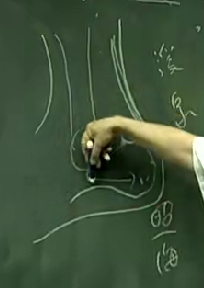
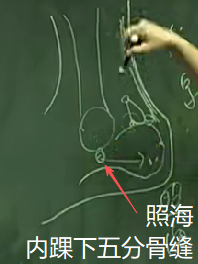
完成了肾经穴道内容。待补肾经胸腹线路图。

diff --git a/docs/acupuncture/meridians/kidney/index.md b/docs/acupuncture/meridians/kidney/index.md
@@ -111,44 +111,59 @@
 
 ## 太溪（俞穴，属土）
 
-![An image](/kidney/10太溪.png)
+![An image](/kidney/10太溪大钟水泉.png)
 太溪，在内踝高骨与脚后大筋的中间凹陷处。俞穴，属土。太溪里面有动脉，人昏迷过去，如果太溪脉还在，就是肾气还在，就可以救回来；如果曈孔放大，太溪脉也没有了，就没有救了。
 
 附，冲阳脉在，就是胃气还在。
 
 太溪下针，直下。
+![An image](/kidney/10太溪下针是直下.png)
 
 ## 肾结石反应区（奇穴）
 
 |||
 |---|---|
 |![An image](/kidney/11肾结石反应点.png)|![An image](/kidney/12肾结石的位置.png)|
-
+肾结石一般在下午5-7点发作，因为此时气血运行在肾经。
 太溪上一两寸的范围，想像一个肾的形状，这就是肾结石的反应区。在这个区域按压，如果有强烈压痛，就是有肾结石，因结石点不同，所以压痛点会不同，在压痛点下针，直下。肾结石在排的时候很痛，一下针，痛马上缓解，过一会儿，病人会感到有东西在动，就是结石在排。吃钙片会长肾结石，还有注意饮水的问题。喝鱼骨汤就能很好补钙。人体需要钙，但只能从自然的食物中获取。
 
 ## 大钟（络穴）
 
-![An image](/kidney/13大钟.png)
-大钟，络穴。在后跟骨与大筋的交接处。肾实小便排不出、虚症腰酸痛，都可以下大钟。直下。
+![An image](/kidney/10太溪大钟水泉.png)
+大钟，络穴。在后跟骨与大筋的交接处。肾实小便排不出、虚症腰酸痛，都可以下大钟。
+
+大钟下针直下。
+![An image](/kidney/11大钟下针是直下.png)
 
 ## 水泉（郄穴）
 
-![An image](/kidney/14水泉.png)
-水泉，郄穴。太溪向下到跟骨边上。从上到下斜向里下针。水、溪，都治水肿、月经等水病。治后跟痛，左脚后跟痛扎右脚水泉，右脚后跟痛扎左脚水泉。
+![An image](/kidney/10太溪大钟水泉.png)
+水泉，郄穴。太溪向下到跟骨边上。
+
+从上到下斜向里45度下针。
+![An image](/kidney/12水泉下针斜向下.png)
+水、溪，都治水肿、月经等水病。治后跟痛，左脚后跟痛扎右脚水泉，右脚后跟痛扎左脚水泉。
+
+::: info 为什么水泉治后跟痛、停经、水肿很好用？
+因为肾主骨、肾管月事、肾为水，而水泉是肾经郄穴，所以治水病、骨病镇痛都有用。
+:::
 
 ## 照海（阴跷脉）
 
 ![An image](/kidney/15照海.png)
-照海，内踝下五分的骨缝中。从上到下斜向里，顺着骨缝下针。
+照海，内踝下五分的骨缝中。
 
-照海管阴跷脉。阴跷和肾经重叠并行至喉。
+从上到下斜向里45度，顺着骨缝下针。
+![An image](/kidney/15照海下针斜向下.png)
+
+照海管阴跷脉。阴跷和肾经一直重叠并行至喉。
 
 ::: tip 列缺照海治一切喉病
 列缺照海治一切喉病，如甲状腺肿大、扁桃腺发炎、慢性喉炎、咽炎。一下对穴道，喉痛马上去掉。如果扁桃肿得太大，三寸针天应放血，再下照海，喉痛当场去掉。后用夏枯草五钱，煮带壳鸡蛋，两碗水煮成一碗，喝汤吃蛋，之后终生不会再犯扁桃腺炎。
 :::
 
 ::: tip 女人逆经
-女人逆经，月经本该顺任脉下行，却被阴跷倒推上行，从鼻子出来，每月固定流鼻血，这就用照海治。
+月经本该顺任脉下行，由胸部到子宫再由阴道排出，由于阴跷脉出了问题，反被阴跷倒推上行，顺喉头再从鼻子出来，每月固定流鼻血，这就是逆经。因为是阴跷的问题，所以用照海治。
 :::
 
 ::: tip 癫痫
@@ -168,31 +183,36 @@
 ![An image](/kidney/17复溜下针法.png)
 下针方式：在复溜下五分入针，斜向上进针，确保针尖停在复溜处。这是补针的下法。一下就是小补，下了针再随经捻转就是中补，再提豆许就是大补。
 
-复溜下针的时候，常常会被麻或电一下。
+复溜气很强，下针的时候，病人常常会像被电麻一样跳一下。
 :::
 
 ::: info 养生灸关元、复溜
 平常没事看电视时，就灸灸关元、复溜，是很补人的。因为肾是水经，而艾就是找水的，所以一灸，脚就会热起来。脚只要是热的，脚上的水是汽化的，身体就不会累积多余的水，癌就不会作怪。我们每个人都有癌细胞，只要水是热的，它永远不会作怪。
+
+灸复溜的时候，一般是盘腿灸，注意避开艾烟，不要因吸入大量艾烟而导致头昏痛。
 :::
 
-## 交信
+## 交信（阴跷郄穴）
 
 ![An image](/kidney/18交信.png)
-交信，复溜往前一寸，到骨边，下针时不要太靠近骨边，因为会伤到骨膜。阴跷郄穴。肾经在复溜打了个折，横行到交信，然后再向上行。
+交信，复溜往前一寸，到骨边，下针时不要太靠近骨边，因为会伤到骨膜，扎下去会很痛。阴跷郄穴。肾经在复溜打了个折，横行到交信，然后再向上行。
 
 交信用得不多，主要用复溜。没事灸复溜，非常好。一灸脚就热起来，水就流动起来。
 
-## 筑宾
+## 筑宾（阴维郄穴）
 
-![An image](/kidney/19筑宾和曲池.png)
-筑宾，太溪上五后一。阴围脉郄穴。
+![An image](/kidney/19筑宾.png)
+筑宾，太溪上五后一。阴维脉郄穴。
+![An image](/kidney/19然谷到筑宾.png)
 
 ::: tip 筑宾、曲池、委中 -- 皮肤病大穴
+![An image](/kidney/19筑宾和曲池.png)
 筑宾和曲池上下呼应，消炎解毒镇痛，筑宾管肚脐以下，曲池管肚脐以上。
 
 - 如果上半身痒，下合谷曲池，因为合谷是气脉；
 - 下半身痒，下筑宾血海三阴交。
 - 如果是牛皮癣，委中放血。
+
 五穴十针，左右都要下，下针的同时，全身的痒就去掉了。所以这五个穴加上委中，是治疗皮肤病的大穴。
 :::
 
@@ -202,37 +222,121 @@
 
 ## 阴谷（合穴，属水，本穴）
 
-阴谷，腘内侧两条筋的中间凹洞。属水，本穴，合穴。可泻金家实症，比如肺和大肠的实症，可用阴谷去泻。可补木家虚症，比如肝胆虚症，可用阴谷去补肝胆。本穴，可补泻子母，这就是本穴的用法。下针方法：曲腿下两筋中间的凹洞，直腿下筋的内侧，因为腿直起来的时候两条筋就崩成了一条筋。只要扎下去引到气，水性就出来了，就补木泻金了。所以本穴无所谓行补泻。
+![An image](/kidney/20阴谷.png)
+阴谷，腘内侧两条筋的中间凹洞。属水，本穴，合穴。本穴无所谓行补泻。
 
-对称治疗法：如果委中痛，可以扎对侧委中，或者扎对侧尺泽或曲泽；如果腘窝内侧痛，可以扎对侧少海；如果外侧痛，扎曲池；如果肘尖撞痛，可以扎对侧鹤顶；如果腕背中间痛，扎对侧解溪；如果太渊痛，扎对侧商丘；如果鱼际痛，对侧然谷或公孙。
+::: warning 本穴的用法
+![An image](/kidney/20阴谷的用法.png)
+水经水穴，可泻金家实症，因为金生水，比如肺和大肠的实症，可用阴谷去泻。针扎下去，左转右转引到气就行了，就已经泻了金了；
 
-横骨，曲骨外开一寸。腹部肾经与任脉相距一寸。腹部肾经与冲脉重叠。胸腹部的穴道一般是近取穴，近取穴配合远取穴效果更好。比如失精梦遗，可以近取横骨，远取太溪、复溜。
+水经水穴，可补木家虚症，因为水生木，比如肝胆虚症，可用阴谷去补肝胆。针扎下去，左转右转引到气就行了，就已经补了木了；
 
-大赫至盲俞
+本穴，可补泻子母，这就是本穴的用法。
+:::
+
+::: warning 阴谷下针方法
+|||
+|---|---|
+|![An image](/kidney/20阴谷.png)|![An image](/kidney/20阴谷2.png)|
+|曲腿下两筋中间的凹洞|直腿下筋的内侧，因为腿直起来的时候两条筋就崩成了一条筋。|
+
+只要扎下去引到气，水性就出来了，就补木泻金了。所以本穴无所谓行补泻。
+:::
+
+::: warning 对称治疗法
+手和脚是可以类比对称的。手掌伸直，手腕和手肘弯起来，手掌就对称脚掌，手腕对称脚踝，肘关节对称膝关节，肩关节对称髀关节。
+|||
+|---|---|
+|![An image](/kidney/21对称治疗的比象.png)|如果委中痛，可以扎对侧委中，或者扎对侧尺泽或曲泽；<br>如果腘窝内侧痛，可以扎对侧少海；<br>如果外侧痛，扎曲池；<br>如果腕背中间痛，扎对侧解溪；|
+|![An image](/kidney/21对称治疗的比象2.png)|如果肘尖撞痛，可以扎对侧鹤顶；|
+|![An image](/kidney/21对称治疗的比象3.png)|如果太渊痛，扎对侧商丘；|
+|![An image](/kidney/21对称治疗的比象4.png)|如果鱼际痛，对侧然谷或公孙。|
+
+这里所说的都是对称点位。痛点不一定正好痛在穴道上，在对称点仔细寻找压痛点，在最痛的压痛点下针，针一下，痛就去掉了。
+:::
+
+## 横骨
+
+![An image](/kidney/22横骨.png)
+横骨，曲骨外开一寸。腹部肾经与任脉相距一寸。
+
+![An image](/kidney/23肾经的腹部走线.png)
+腹部肾经与冲脉重叠。
+
+胸腹部的穴道一般是近取穴，近取穴配合远取穴效果更好。比如失精梦遗，可以近取横骨，远取太溪、复溜。
+
+## 大赫至盲俞
+
 大赫，中极外开一寸。阴缩、赤白带
+
 气穴，关元外开一寸。
+
 四海，石门外开一寸。大肠病、肠鸣、腹泻
+
 中渚，阴交外开一寸。大肠病
+
 盲俞，肚脐外开一寸。大肠病
+
 如果肚子痛，既不在任脉上，又不在胃经上，那就是在肾经上。可以近取穴患处穴道，配远取穴肾经末梢穴道。
 
+::: warning 近取穴和远取穴的配方
+肾经上的病，可以近取穴患处穴道，配远取穴肾经末梢穴道。
+
+- 如果肚子痛，痛在肾经上，那就近取穴患处穴道，配肾经子穴和郄穴然谷；
+- 失精梦遗，这是肾虚的表现，可以近取横骨，远取太溪、复溜。
+:::
+
+![An image](/kidney/23肾经的腹部走线.png)
 肋骨下横骨上的区域，肾经与任脉相距一寸，肾经与冲脉重叠。肾经上的穴道，都是任脉穴道的辅助穴。
 
+## 商曲石关阴都通谷幽门
+
 商曲，下脘外开一寸。
-如果水肿（可能是脸肿或腿肿），小便不利，可以用上水三针（水分和关元旁开二寸的水道），以及下水三针（阴陵泉、地机、三阴交）。针一下去，肿就开始消，针完回去，第二天再来的时候，肿已经消了一大半。
+
+::: tip 水肿
+![An image](/kidney/24水肿用的穴道.png)
+- 如果下半身整个是肿的，且小便不利，可以用上水三针（水分和关元旁开二寸的水道），以及三皇穴（阴陵泉、地机、三阴交）。三皇穴一下进去，肿就开始消，针完回去，第二天再来的时候，肿已经消了一大半。
+- 脸肿，脸正面是足阳明胃经，承泣四白巨髎都在阳明经上。
+:::
+
 石关，建里外开一寸。胃胀、吃不下
+
 阴都，中脘外开一寸。
-通谷，上脘外开一寸。另一个通谷在膀胱经，荥穴。
+
+通谷，上脘外开一寸。通谷有两个，另一个通谷在膀胱经，荥穴。
+
 幽门，巨阙外开一寸。
 
+## 步廊
 
-如果乳房硬块在肾经上，如果在喂乳期，治症以胃经和心为主，用母穴解溪，用梁丘止痛，用巨阙和心俞，用这些穴道的目的是把奶水聚集到乳头排出来。因为这时的身体主要任务是产乳排乳，所以主要是强胃经和强心。肾经和胃经之间的经气联络靠的是三焦经，三焦经行阳，所以奶水是白色的，白色为阳。
-如果乳房硬块在肾经上，但不是喂乳期，用天应隔姜灸。硬块就是奶水囤积在这里，灸的最大作用就是找水，所以用灸对付乳房硬块是最合适的方法。也可以下肾经子穴然谷或母穴复溜。如果痛，加下郄穴水泉。
+从步廊开始，肾经与任脉相距两寸，经过乳房内侧。
+![An image](/kidney/25肾经的胸部走线.png)
 
-膻中下一寸六，是中庭，中庭外开二寸，是步㾿。
+膻中下一寸六，是中庭，中庭外开二寸，是步廊。
+
 从步廊开始，每隔一个肋骨就是一个穴道，书上说隔一寸六。
+
 神封，步廊上一肋骨，也就是膻中旁开二寸。很多乳房硬块在神封这里。初期天应灸，下肾经子母穴，效果非常好，很快就消了。
+
+::: tip 如果乳房硬块在肾经上
+- 如果乳房硬块在肾经上，如果在喂乳期，治症以胃经和心为主，用母穴解溪，用梁丘止痛，用巨阙和心俞，用这些穴道的目的是把奶水聚集到乳头排出来。因为这时的身体主要任务是产乳排乳，所以主要是加强胃经的输通和加强心的功能。肾经和胃经之间的经气联络靠的是三焦经，三焦经行阳，所以奶水是白色的，白色为阳。
+![An image](/kidney/26乳房硬块在肾经的治法.png)
+- 如果乳房硬块在肾经上，但不是喂乳期，用天应隔姜灸。硬块就是奶水囤积在这里，灸的最大作用就是找水，所以用灸对付乳房硬块是最合适的方法。也可以下肾经子穴然谷或母穴复溜。如果痛，加下郄穴水泉。
+:::
+
 玉堂外开二寸，灵虚。
+
 紫宫外开二寸，神藏。
-华盖外开二寸，俞府。下针是左右向外平斜刺。穴前半寸下针，沿着肋骨间斜向内刺，确保针尖停在穴道上。
+
+华盖外开二寸，俞府。
+
+::: warning 胸部肋间的下针规则
+下针是左右向外平斜刺。穴前半寸下针，沿着肋骨间斜向外刺，确保针尖停在穴道上。
+:::
+
+::: tip 气喘
 如果气喘，是吸入困难，就是胸部肾经近取穴；是呼出困难，就在胸部肺经近取穴。
+:::
+
+## 肾经胸腹线路
+待补肾经胸腹线路图
